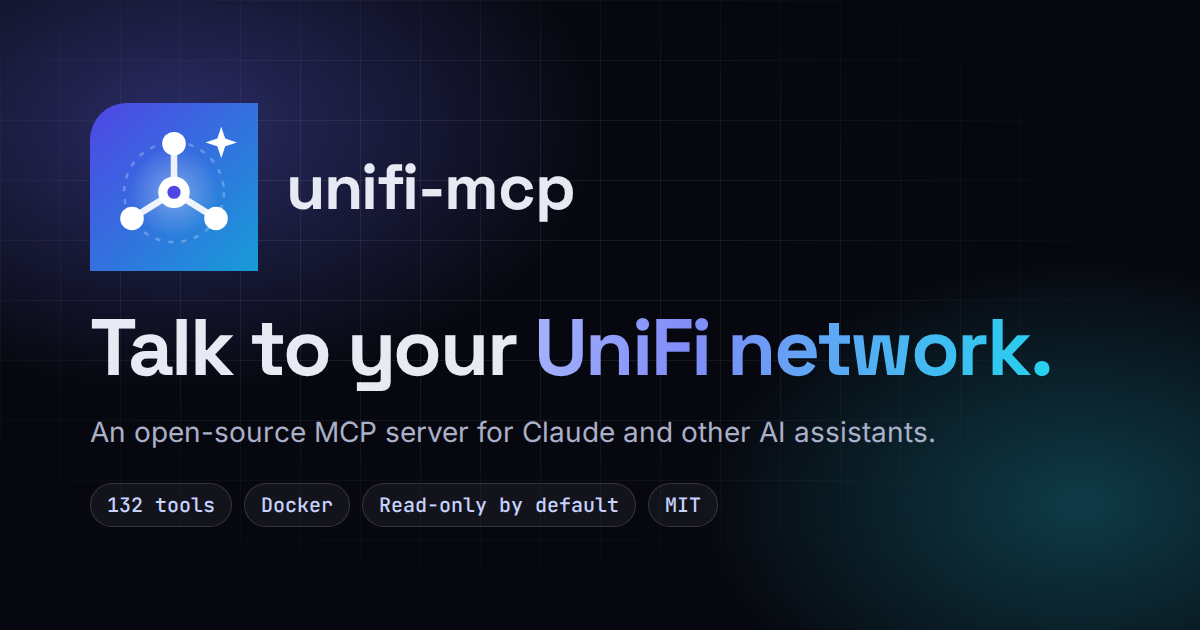
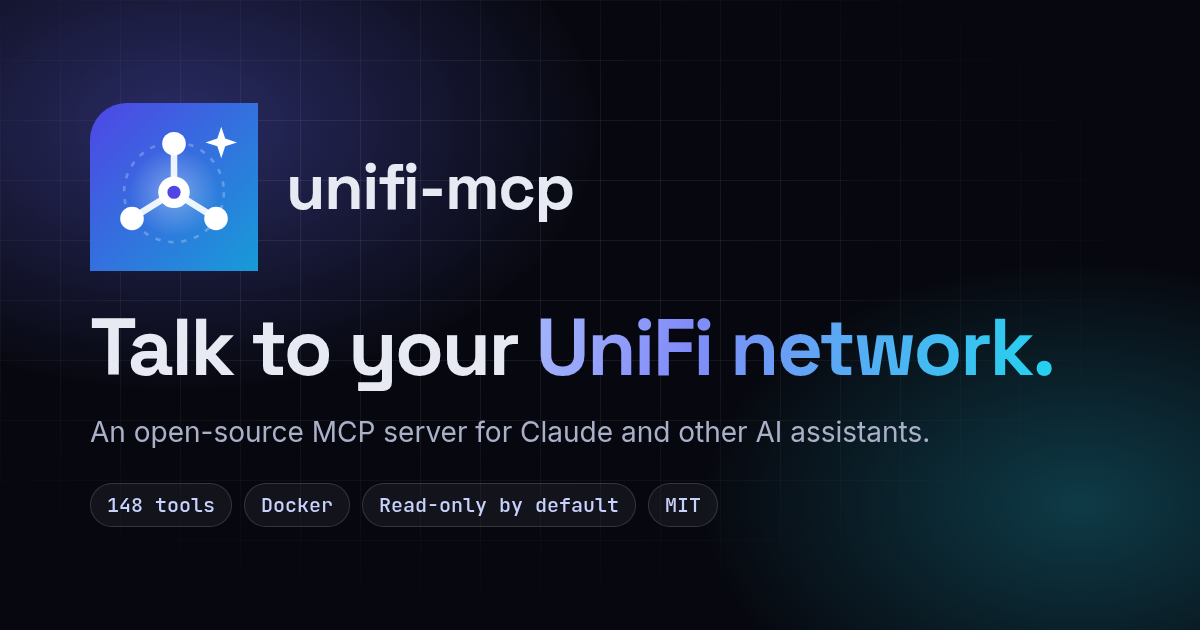
docs: refresh the tool count in the README and social preview (#62)
The README's tool reference link still said 145 tools and the social
preview image 132; there are 148 since v0.8.0. Re-render og.png from
og.html at 1200x630.

diff --git a/website/scripts/og.html b/website/scripts/og.html
@@ -44,4 +44,4 @@ p{font-size:28px;color:#aab0c8;margin-top:26px}
 </svg><div class="name">unifi-mcp</div></div>
 <h1>Talk to your <span>UniFi network.</span></h1>
 <p>An open-source MCP server for Claude and other AI assistants.</p>
-<div class="tags"><b>132 tools</b><b>Docker</b><b>Read-only by default</b><b>MIT</b></div></div></body></html>
+<div class="tags"><b>148 tools</b><b>Docker</b><b>Read-only by default</b><b>MIT</b></div></div></body></html>

diff --git a/README.md b/README.md
@@ -124,7 +124,7 @@ The docs are also published at **[unifi-mcp.mattoddie.dev/docs](https://unifi-mc
 | ⚙ [Configuration](docs/configuration.md) | Every environment variable, Docker secrets, toolsets |
 | 🐳 [Deployment](docs/deployment.md) | Compose, image tags, upgrades, TLS reverse proxy, hardening |
 | 💬 [Using unifi-mcp](docs/usage.md) | Example conversations, prompts, how saves and secrets work |
-| 🧰 [Tool reference](docs/tools.md) | All 145 tools and 5 prompts, generated from the code |
+| 🧰 [Tool reference](docs/tools.md) | All 148 tools and 5 prompts, generated from the code |
 | 🛡 [Security](docs/security.md) | Threat model, least privilege, safe write setups |
 | 📡 [Compatibility](docs/compatibility.md) | Supported controllers and versions, API caveats |
 | 🩹 [Troubleshooting](docs/troubleshooting.md) | Common errors and how to fix them |
